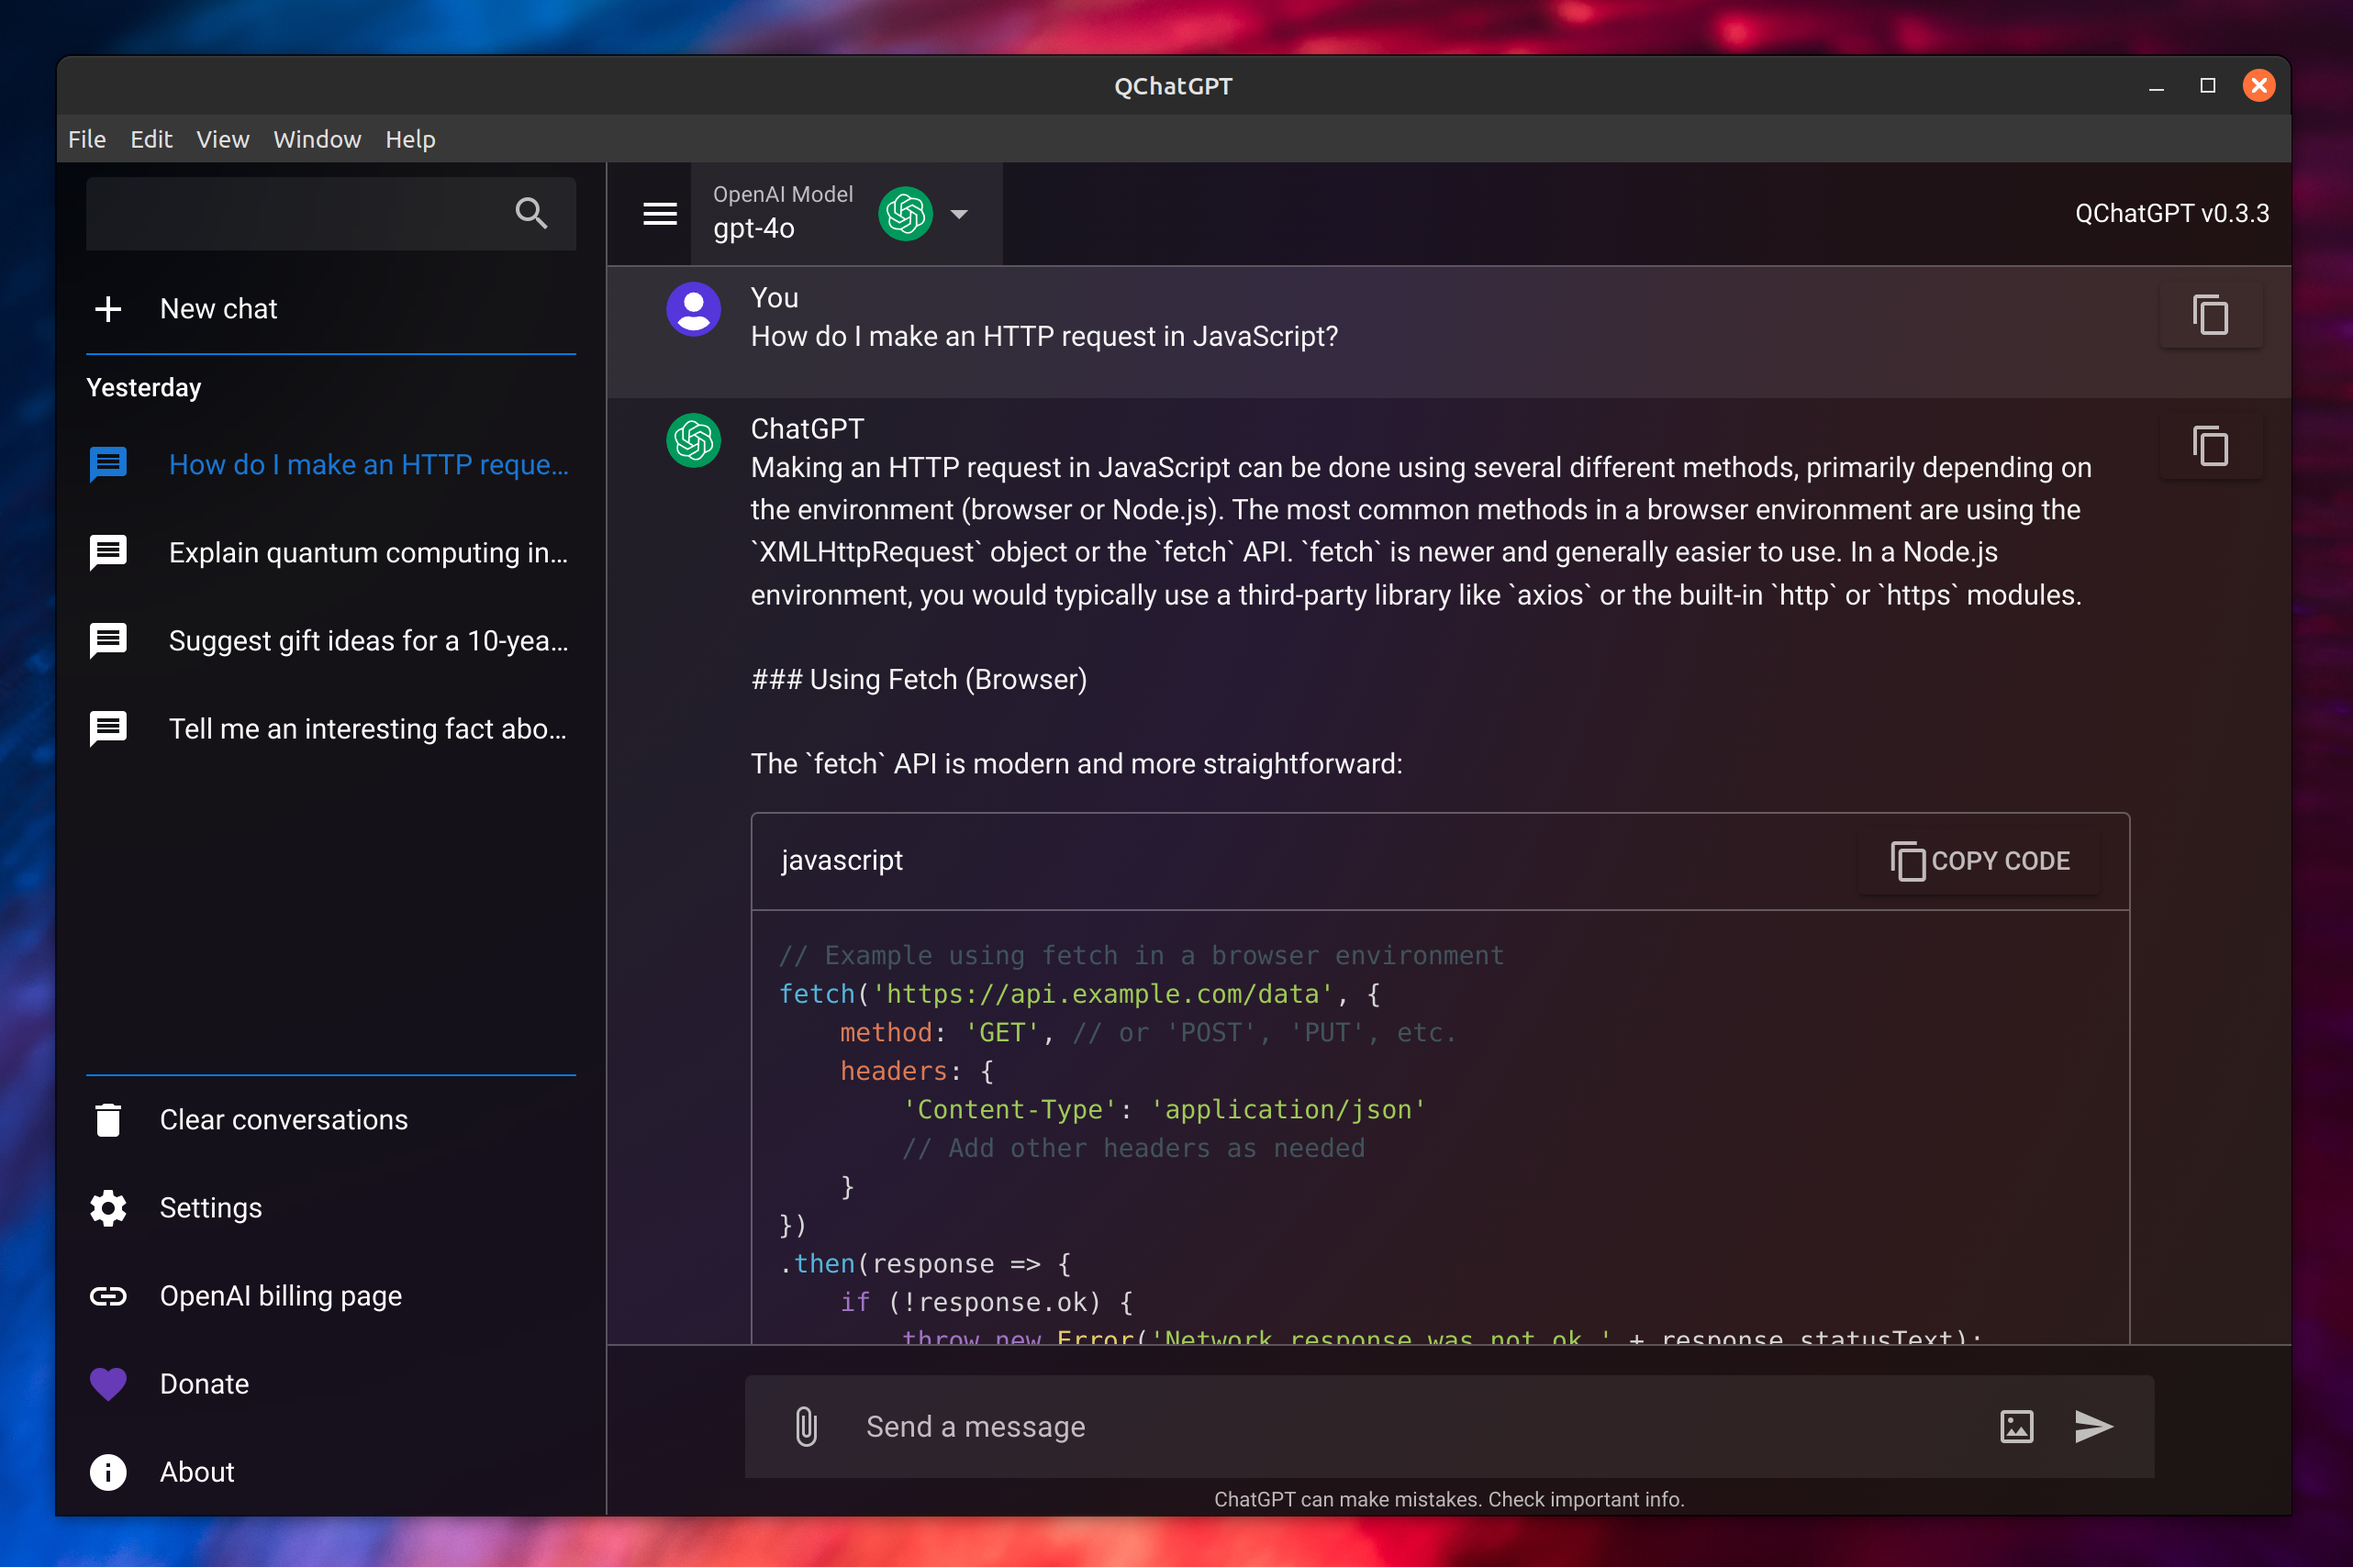
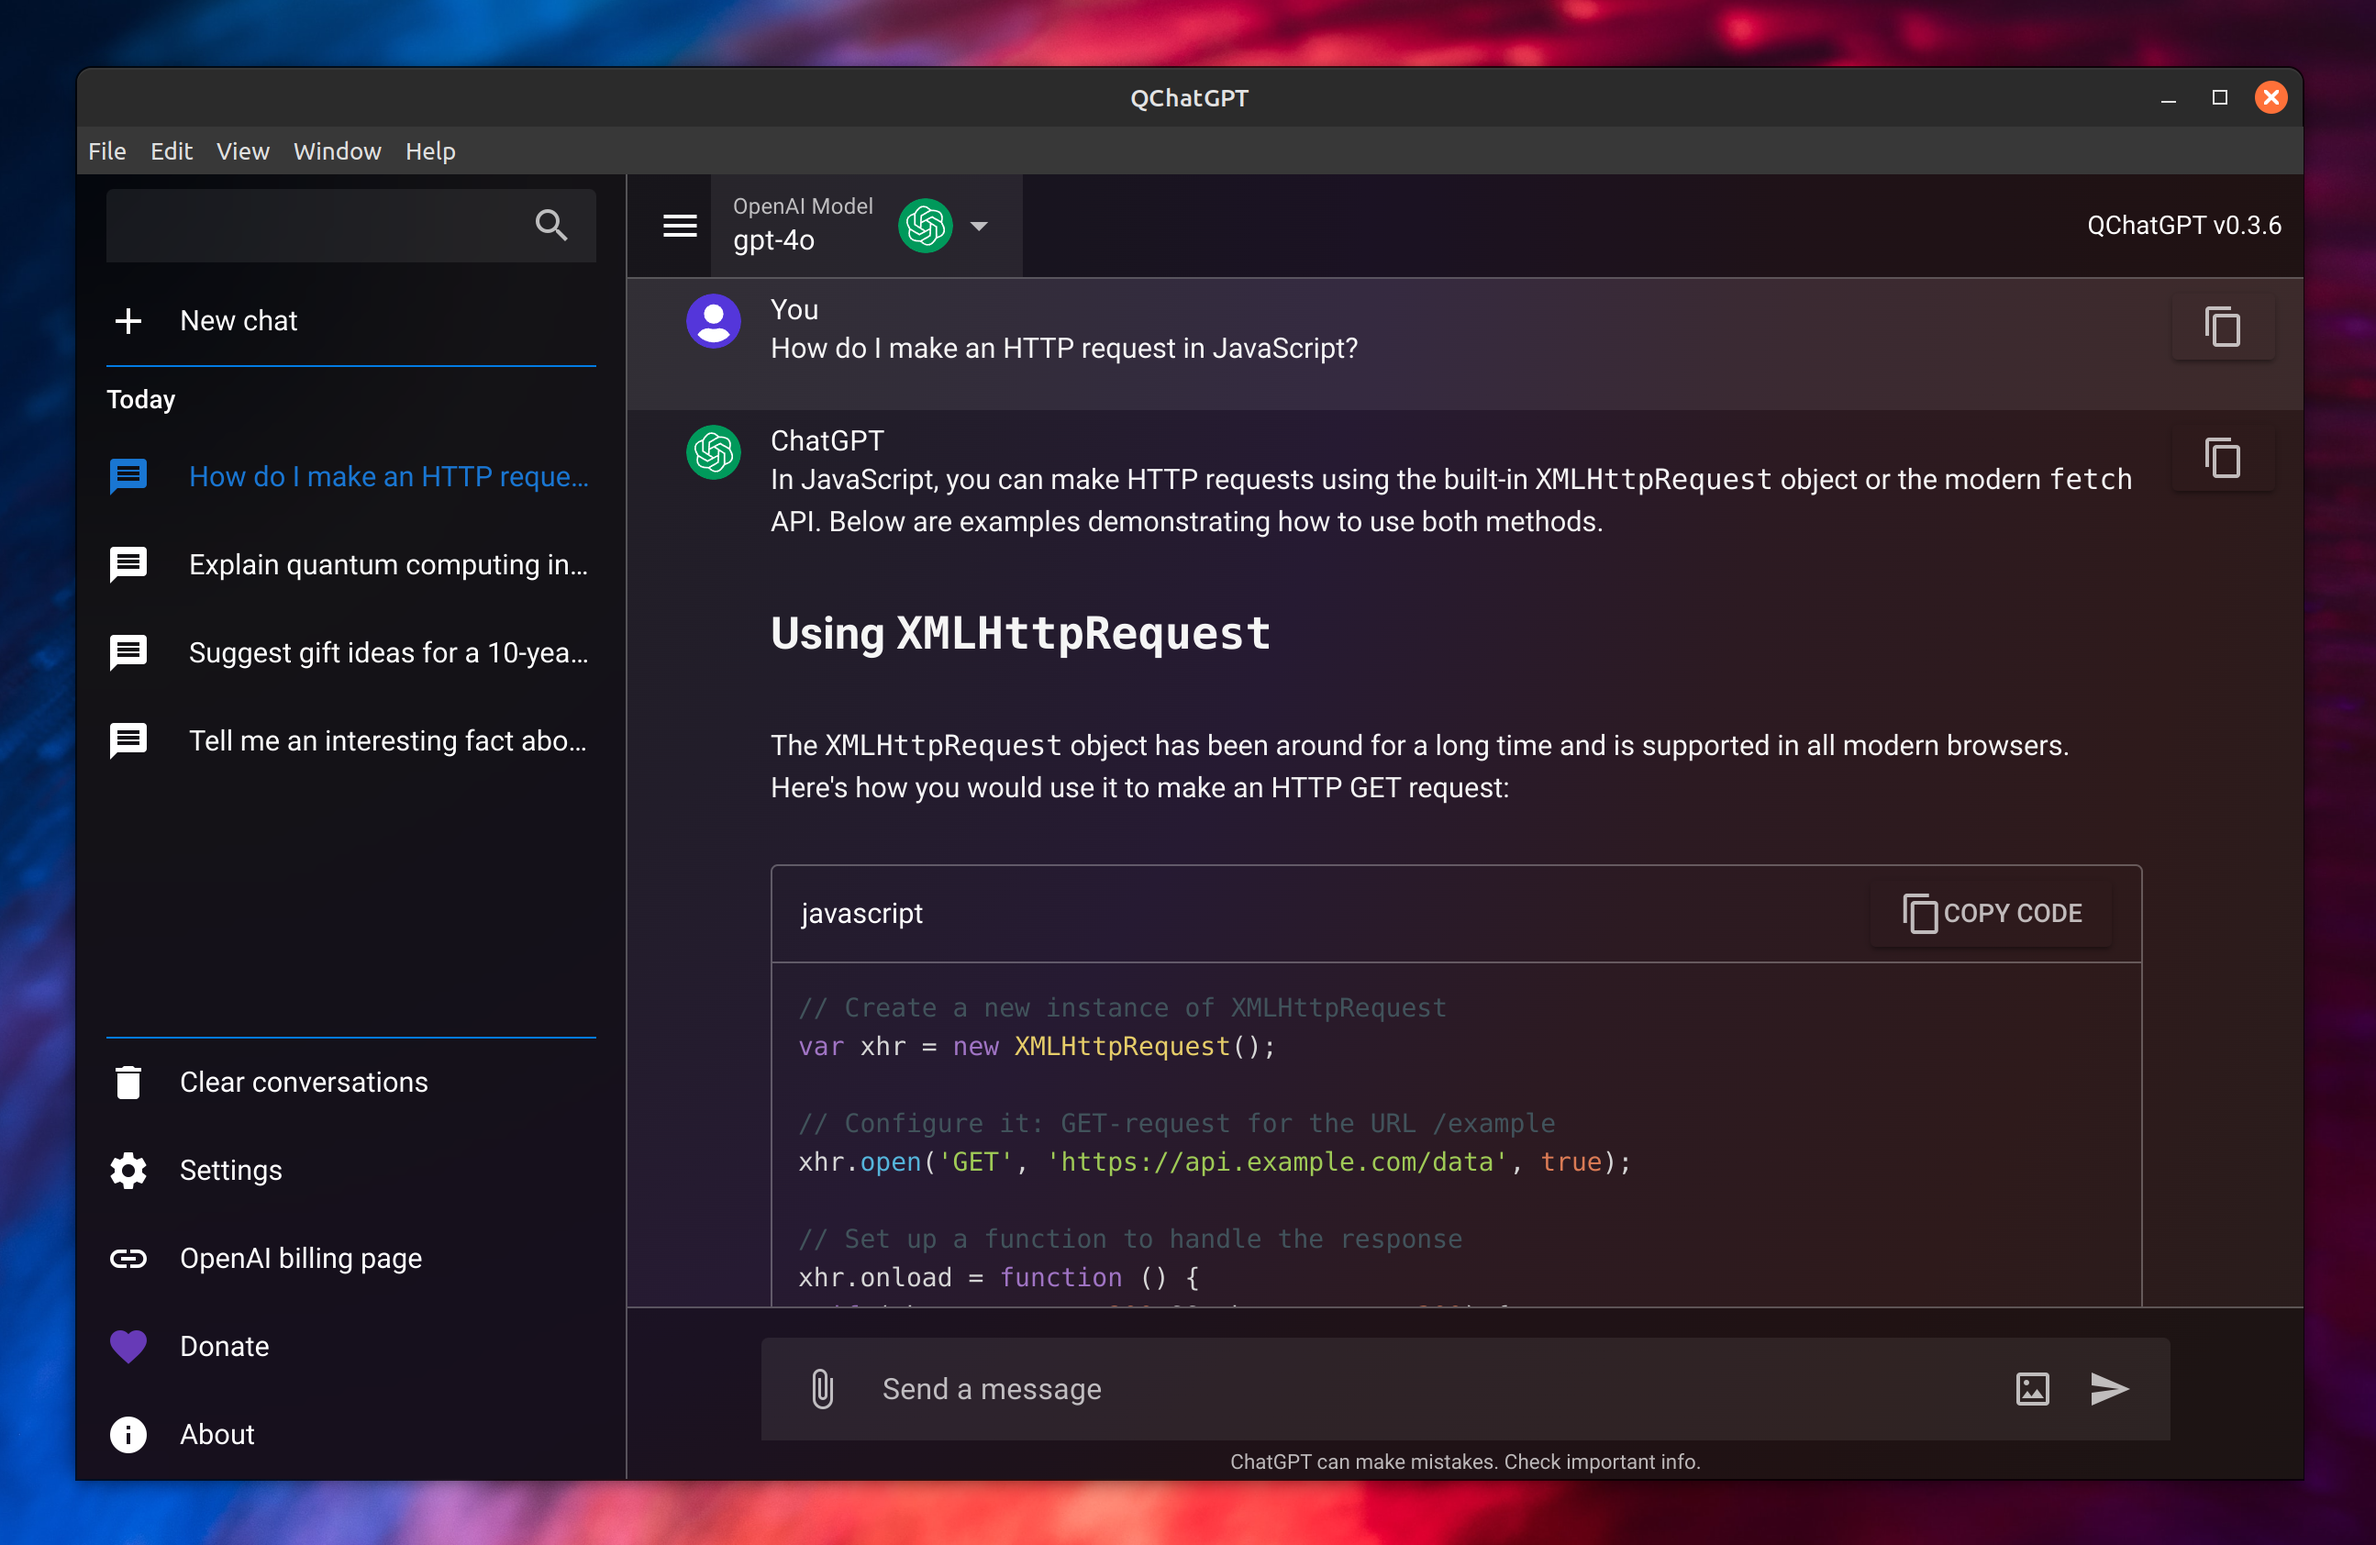
Added support for markdown in chat responses

diff --git a/src/components/MessagesComponent.vue b/src/components/MessagesComponent.vue
@@ -55,13 +55,22 @@
             v-for="(part, index) in splitMessage(message.text)"
             :key="'template-' + index"
           >
-            <pre
-              class="pre-wrap"
-              v-if="!isCode(part)"
-              :key="'text-' + index"
-              :style="{ color: message.role === 2 ? 'red' : 'whitesmoke' }"
-              >{{ part.trim() }}</pre
-            >
+            <template v-if="!isCode(part)">
+              <pre
+                class="pre-wrap"
+                v-if="!settings.showMarkdown.value"
+                :key="'text-' + index"
+                :style="{ color: message.role === 2 ? 'red' : 'whitesmoke' }"
+                >{{ part.trim() }}</pre
+              >
+              <div
+                class="md-content"
+                v-else
+                :key="'text-md-' + index"
+                :style="{ color: message.role === 2 ? 'red' : 'whitesmoke' }"
+                v-html="renderMarkdown(part.trim())"
+              ></div>
+            </template>
             <q-card
               flat
               bordered
@@ -128,6 +137,16 @@ import { useQuasar, copyToClipboard } from "quasar";
 import { thumbStyle, barStyle } from "src/styles";
 import ImageViewer from "./ImageViewer.vue";
 import FileViewer from "./FileViewer.vue";
+import markdownit from "markdown-it";
+import { settings } from "src/settings";
+
+// Initialize markdown-it
+const md = markdownit();
+
+// Function to convert Markdown to HTML
+const renderMarkdown = (text) => {
+  return md.render(text);
+};
 
 const props = defineProps({
   messages: {
@@ -314,5 +333,50 @@ const copyBlock = async (text) => {
   word-wrap: break-word;
   max-width: 100%;
   font-size: 1.1em;
+}
+
+/* Styling for markdown display */
+.md-content {
+  color: whitesmoke;
+  font-family: "Roboto", "-apple-system", "Helvetica Neue", Helvetica, Arial,
+    sans-serif;
+  font-size: 1.1em;
+  max-width: 48rem !important;
+  margin: 0;
+}
+
+:deep(.md-content ul) {
+  margin-bottom: 1em; /* Set bottom margin for list */
+}
+
+/* Customize styles for headers */
+:deep(.md-content h1) {
+  font-size: 2rem; /* Size of h1 header */
+  font-weight: bold; /* Bold font */
+}
+
+:deep(.md-content h2) {
+  font-size: 1.74rem; /* Size of h2 header */
+  font-weight: bold; /* Bold font */
+}
+
+:deep(.md-content h3) {
+  font-size: 1.52rem; /* Size of h3 header */
+  font-weight: bold; /* Bold font */
+}
+
+:deep(.md-content h4) {
+  font-size: 1.32rem; /* Size of h4 header */
+  font-weight: bold; /* Bold font */
+}
+
+:deep(.md-content h5) {
+  font-size: 1.15rem; /* Size of h5 header */
+  font-weight: bold; /* Bold font */
+}
+
+:deep(.md-content h6) {
+  font-size: 1rem; /* Size of h6 header */
+  font-weight: bold; /* Bold font */
 }
 </style>

diff --git a/src/settings.js b/src/settings.js
@@ -13,6 +13,7 @@ export const settings = {
   presence_penalty: ref(0),
   prompt: ref(""),
   sendOnEnter: ref(true),
+  showMarkdown: ref(true),
   imageSize: ref("1024x1024"),
   imageStyle: ref("vivid"),
 };
@@ -28,6 +29,7 @@ export function loadSettings() {
     "presence_penalty",
     "prompt",
     "sendOnEnter",
+    "showMarkdown",
     "imageSize",
     "imageStyle",
   ];
@@ -46,7 +48,7 @@ export function loadSettings() {
         ].includes(key)
       ) {
         settings[key].value = parseFloat(value);
-      } else if (key === "sendOnEnter") {
+      } else if (key === "sendOnEnter" || key === "showMarkdown") {
         settings[key].value = value === "true";
       } else {
         settings[key].value = value;
@@ -71,6 +73,7 @@ export function saveSettings() {
   );
   LocalStorage.set("prompt", settings.prompt.value);
   LocalStorage.set("sendOnEnter", settings.sendOnEnter.value.toString());
+  LocalStorage.set("showMarkdown", settings.showMarkdown.value.toString());
   LocalStorage.set("imageSize", settings.imageSize.value);
   LocalStorage.set("imageStyle", settings.imageStyle.value);
 }

diff --git a/src/components/SettingsDialog.vue b/src/components/SettingsDialog.vue
@@ -26,6 +26,15 @@
           <div class="q-pt-xs text-left toggle-hint">
             Line break, in this case, will be possible by pressing Ctrl + Enter
           </div>
+
+          <!-- Block to manage showMarkdown -->
+          <div class="row justify-between items-center toggle q-mt-md">
+            <span>Show Markdown</span>
+            <q-toggle v-model="settings.showMarkdown.value" />
+          </div>
+          <div class="q-pt-xs text-left toggle-hint">
+            Enable or disable Markdown rendering
+          </div>
         </q-card-section>
         <q-card-section class="q-mb-md">
           <div class="q-mb-md text-h6">General settings</div>
